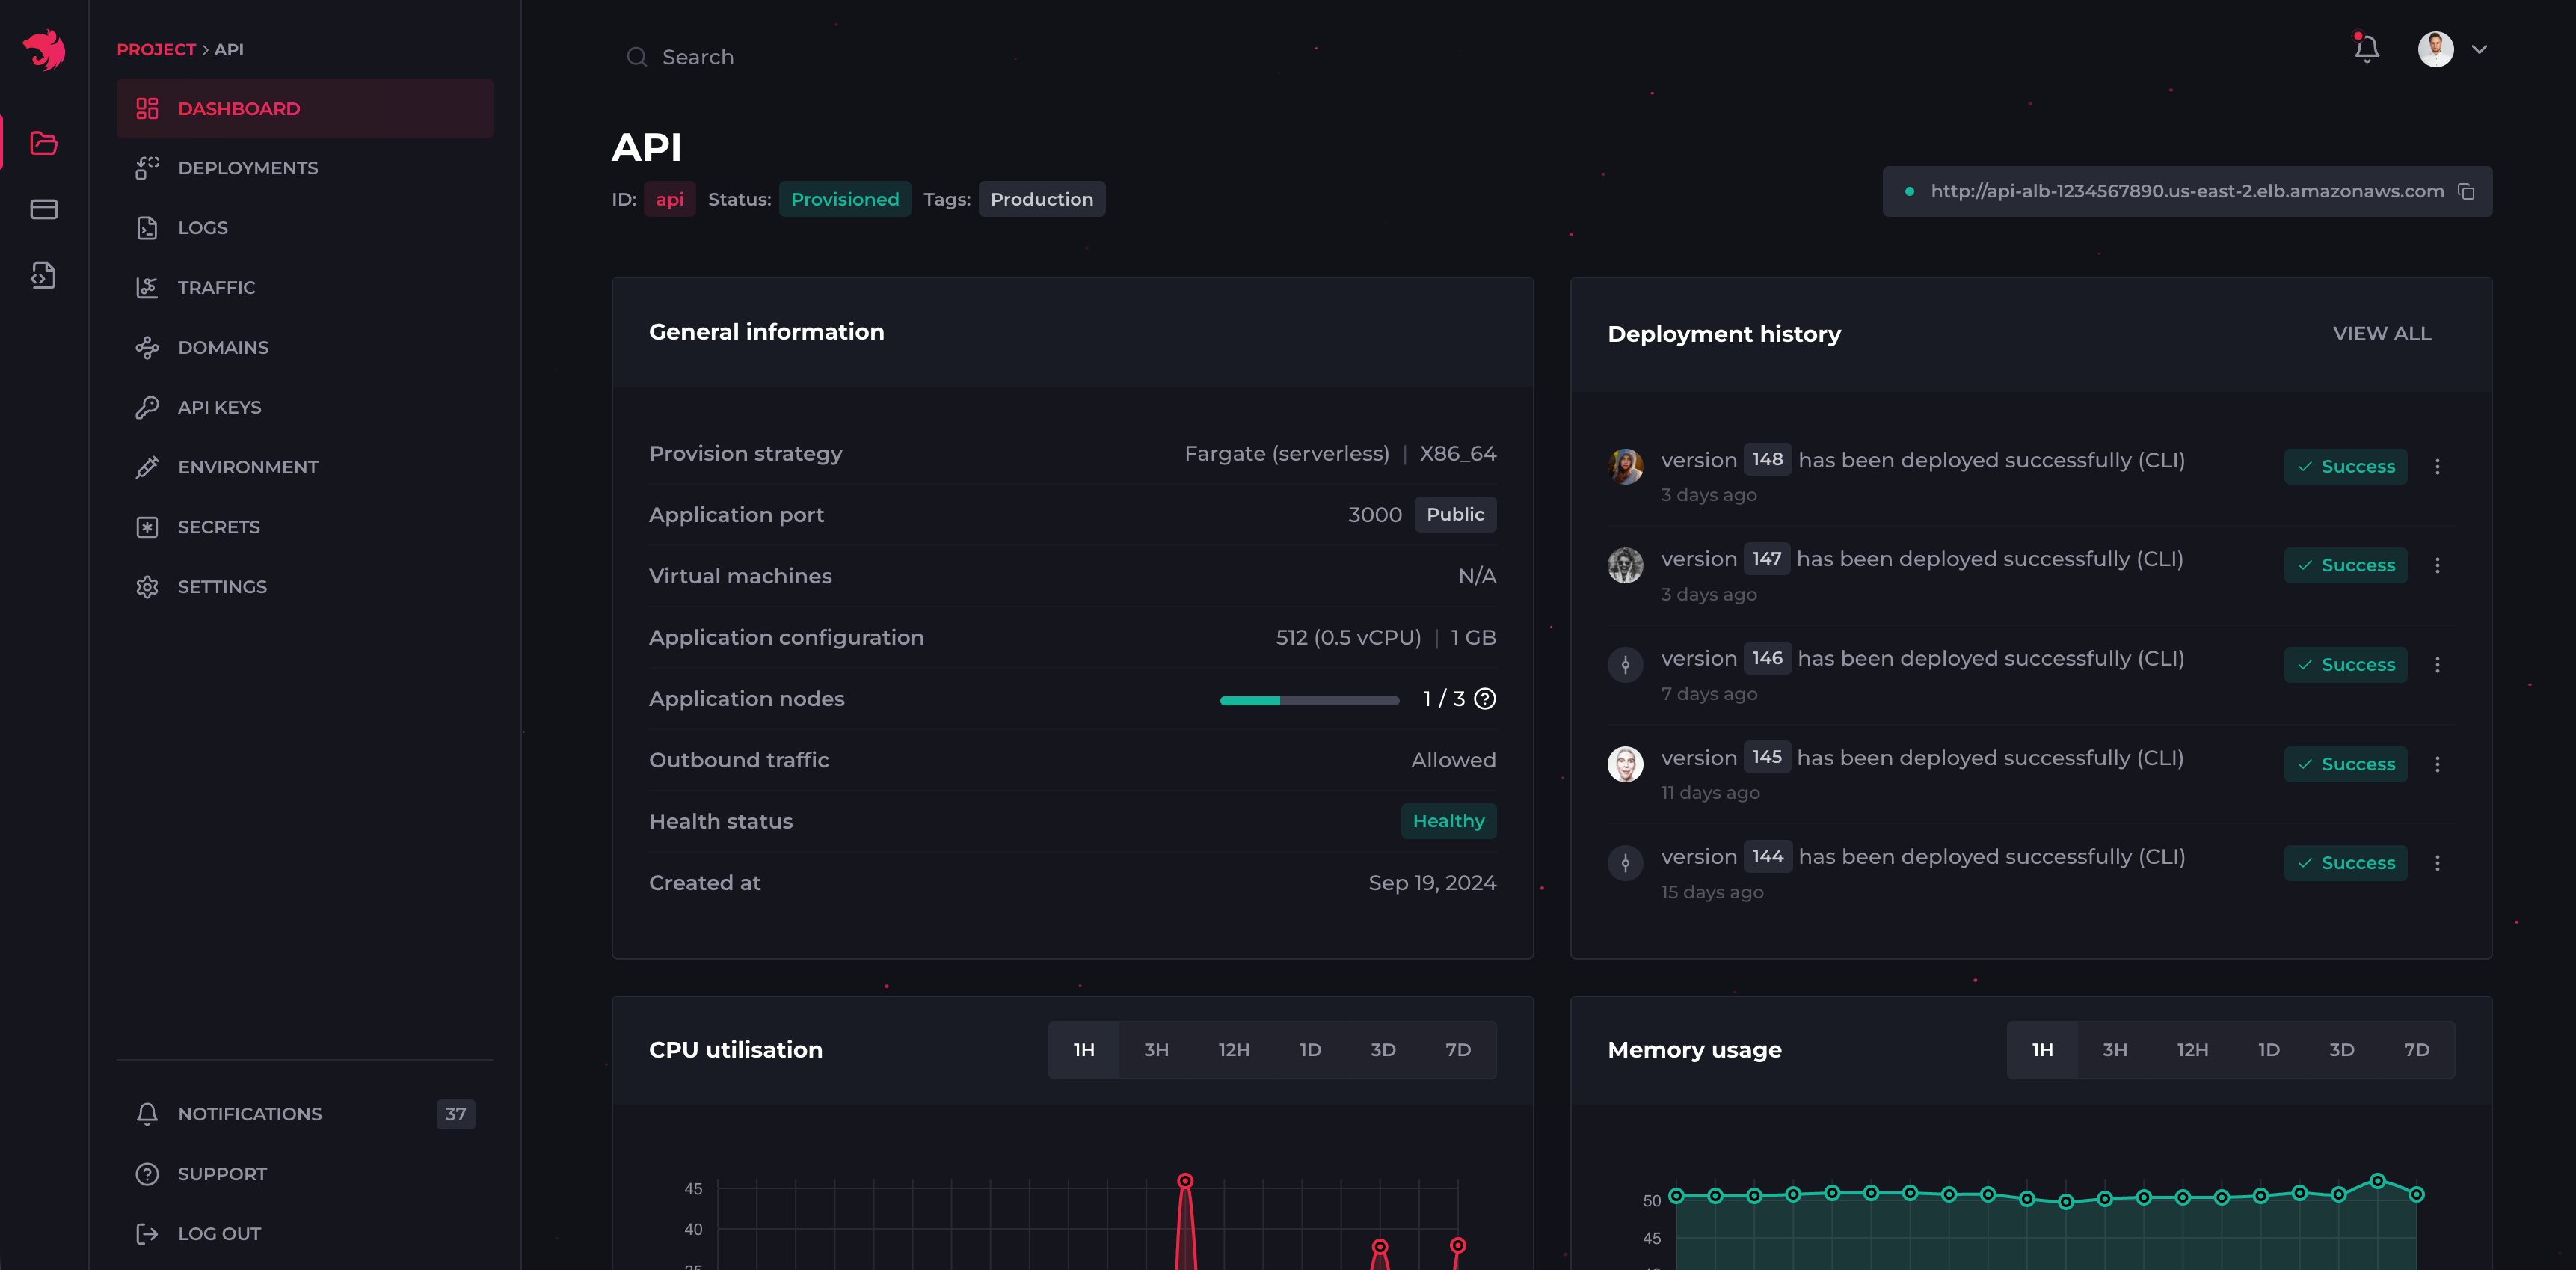
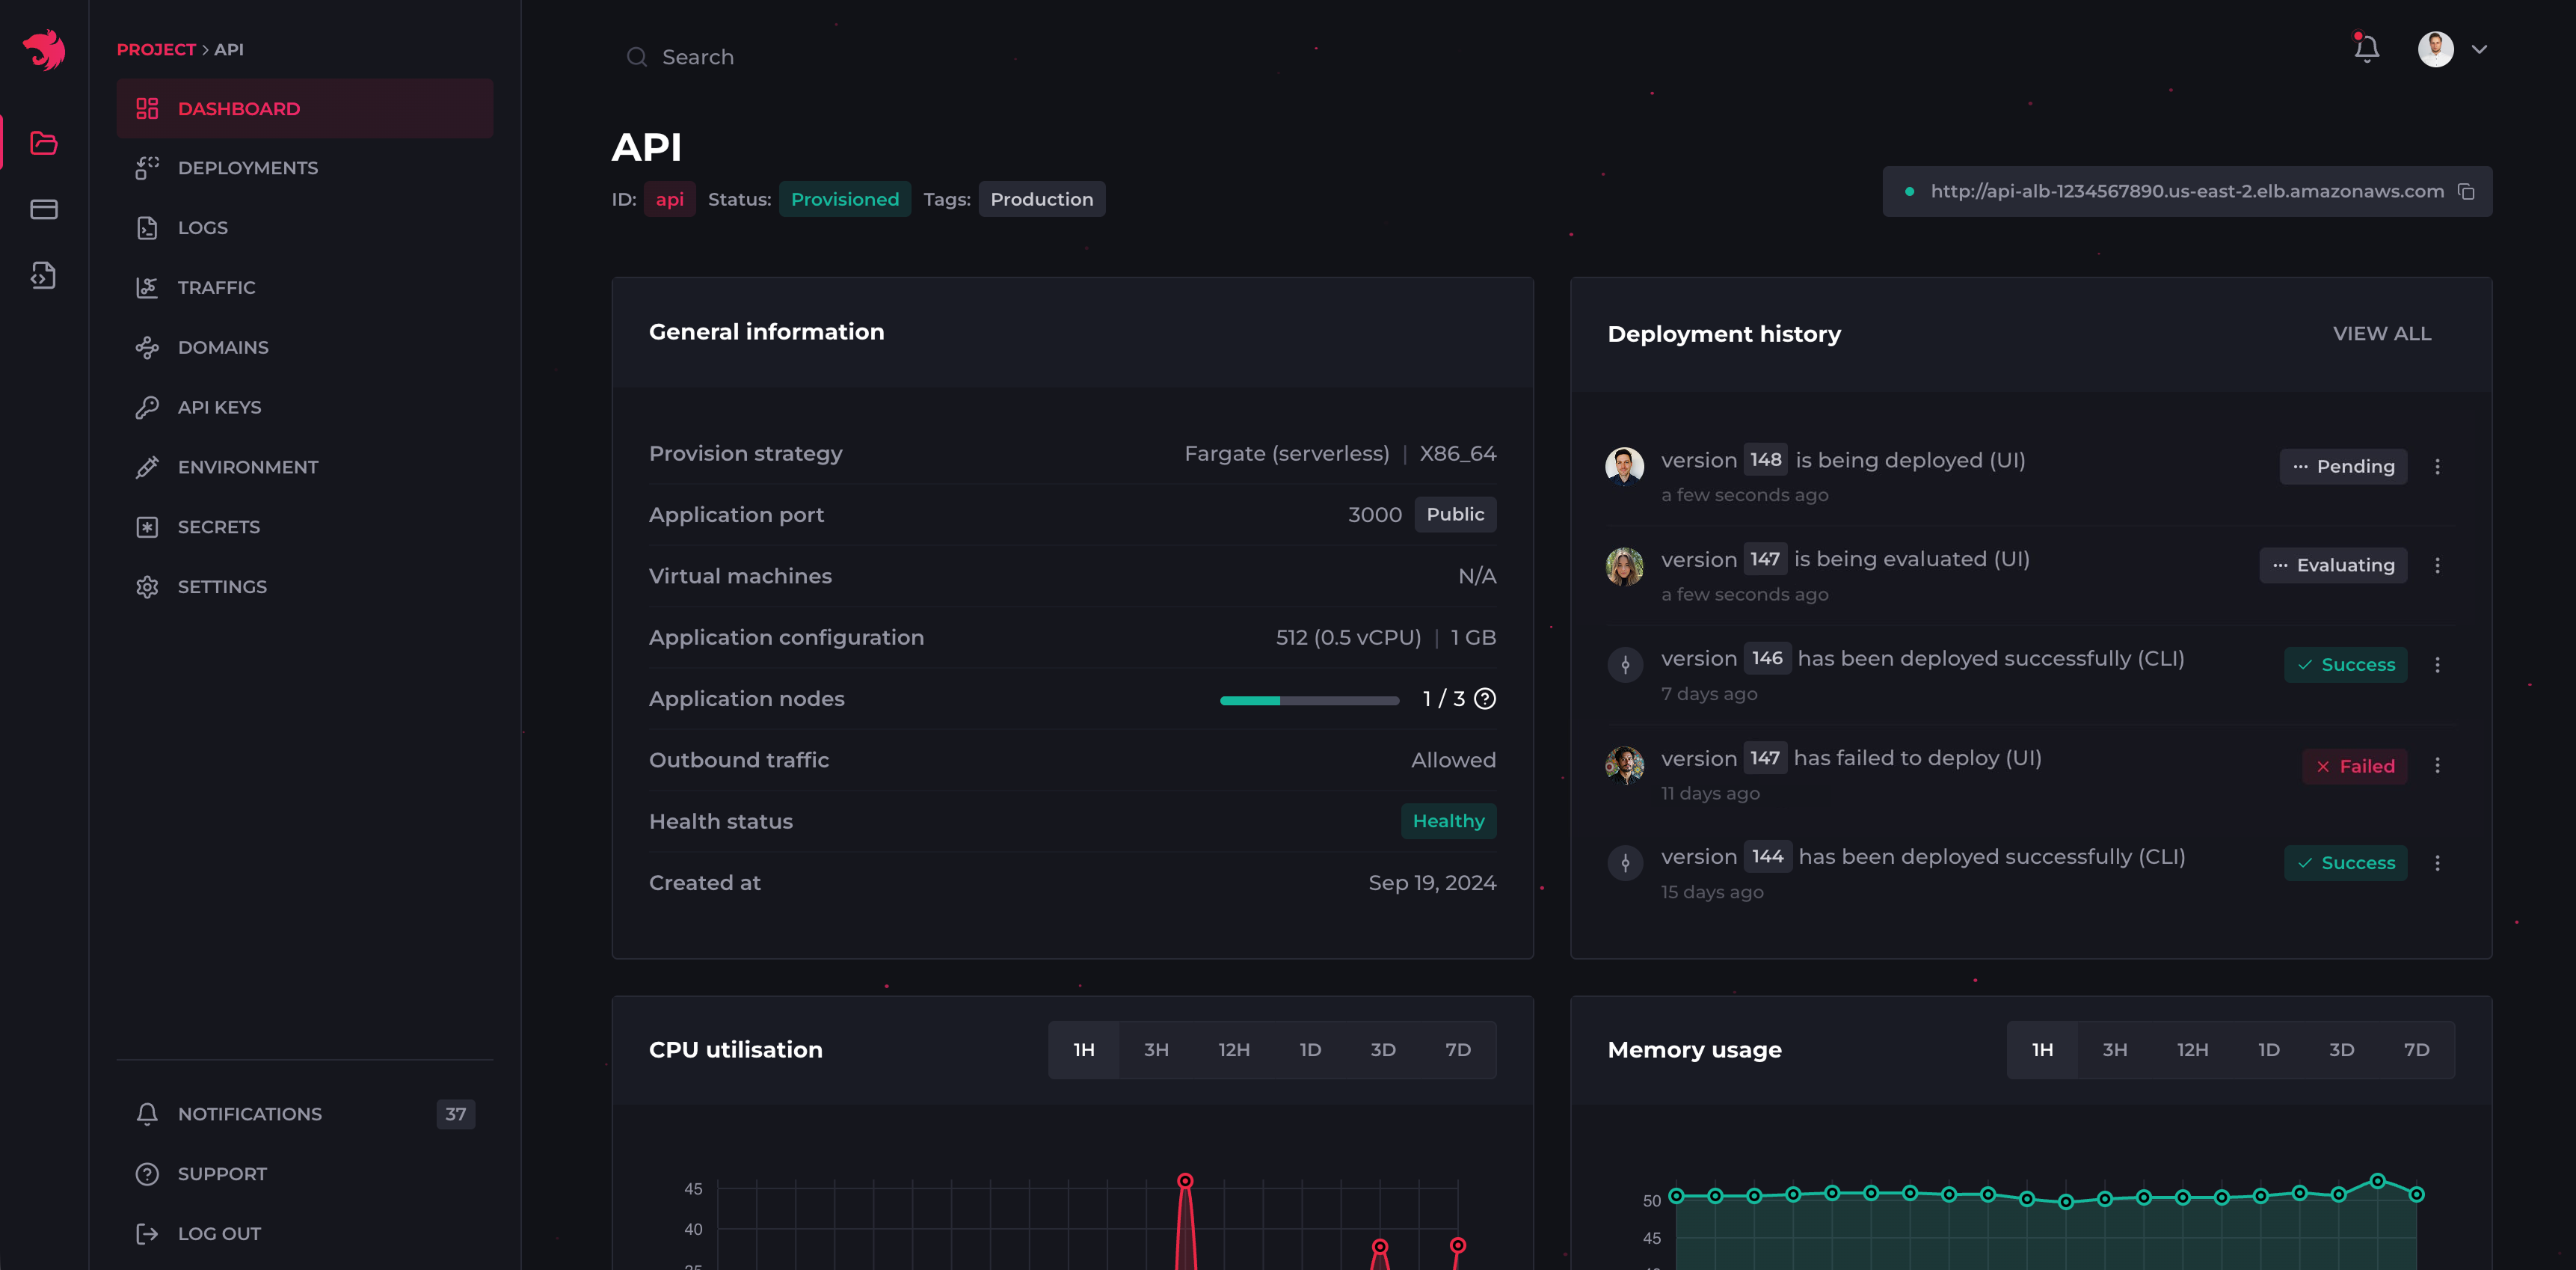
feat: final enterprise page

diff --git a/app/routes/enterprise.tsx b/app/routes/enterprise.tsx
@@ -1,5 +1,6 @@
 import { useEffect, useState } from "react";
-import Conference from "../assets/marketing/conferences.png";
+import Conference from "../assets/marketing/conferences.jpg";
+import Training from "../assets/marketing/trainings.jpg";
 import { MENU_ITEMS } from "../common/menu";
 import ScrollReveal from "../components/animations/scroll-reveal/scroll-reveal";
 import AnimatedChart from "../components/backgrounds/animated-chart/animated-chart";
@@ -66,7 +67,7 @@ export default function Enterprise() {
         variant="description"
       />
       <TiltedTestimonial />
-      <div className="px-5 pt-24 md:mt-80 relative md:pb-160 pb-24">
+      <div className="px-5 pt-24 md:mt-80 relative lg:pb-160 md:pb-120 pb-40">
         <AnimatedChart />
         <div className="container relative flex mx-auto md:flex-row flex-col items-center">
           <div className="max-w-[800px]">
@@ -90,10 +91,43 @@ export default function Enterprise() {
           </div>
         </div>
       </div>
+      <div className="flex justify-center">
+        <div className="container relative md:px-0 px-5 flex flex-col-reverse md:flex-col">
+          <div className="grid md:grid-cols-[50%_10%_40%] grid-rows-[auto] gap-0 md:mt-0 mt-12">
+            <div>
+              <SectionSubheading>Expertise</SectionSubheading>
+              <ScrollReveal
+                ElementTag="h2"
+                className="font-medium md:text-5xl sm:text-3xl text-4xl mb-4 md:leading-14 sm:leading-10 leading-12"
+                enableBlur
+              >
+                Maximize Performance. Minimize Risk.
+              </ScrollReveal>
+            </div>
+            <span></span>
+            <ScrollReveal
+              className="font-mono text-sm opacity-70 leading-6 font-light sm:pt-10 pt-4"
+              ElementTag="p"
+              enableBlur
+            >
+              Our enterprise NestJS support proactively identifies bottlenecks
+              and improves system performance across complex environments. We
+              help you maintain stability and reduce risk even under heavy
+              production load.
+            </ScrollReveal>
+          </div>
+          <div className="overflow-hidden rounded-[32px] mt-24">
+            <img src={Conference} alt="Conference" className="w-full" />
+          </div>
+        </div>
+      </div>
       <PhotoSection
-        subheading="Expertise"
-        heading="Maximize Performance. Minimize Risk."
-        text="Our enterprise NestJS support proactively identifies bottlenecks and improves system performance across complex environments. We help you maintain stability and reduce risk even under heavy production load."
+        subheading="Education"
+        heading="Hands-on workshops led by experienced engineers"
+        text="Focused, practical sessions that help teams build and scale with
+              NestJS. We cover core concepts, architecture, testing, and
+              performance through real-world examples - so your developers can
+              apply what they learn immediately."
         cta={
           <PrimaryButton href="mailto:[email redacted]" target="_blank">
             Contact us
@@ -101,12 +135,12 @@ export default function Enterprise() {
         }
         image={
           <img
-            src={Conference}
-            alt="Conference"
+            src={Training}
+            alt="Training"
             className="rounded-[20px] w-full"
           />
         }
-        className="px-5 py-8 mb-30"
+        className="px-5 py-8 md:mt-60 mt-30 md:mb-30 mb-12"
       />
       <CoursesSection
         className="sm:pt-30 pt-0"

diff --git a/app/routes/tools-mau.tsx b/app/routes/tools-mau.tsx
@@ -8,6 +8,10 @@ import { useEffect, useState } from "react";
 import MauCard1 from "../assets/mau-cards/card-1.png";
 import MauCard2 from "../assets/mau-cards/card-2.png";
 import MauCard3 from "../assets/mau-cards/card-3.png";
+import MauBackground from "../assets/mau-cards/card-bg.png";
+import MauIllustration1 from "../assets/mau-cards/illustration-1.png";
+import MauIllustration2 from "../assets/mau-cards/illustration-2.png";
+import MauIllustration3 from "../assets/mau-cards/illustration-3.png";
 import HeaderBlock1 from "../assets/mau-header/header-block-1.png";
 import HeaderBlock2 from "../assets/mau-header/header-block-2.png";
 import { MENU_ITEMS } from "../common/menu";
@@ -141,8 +145,16 @@ export default function Courses() {
               <div className="flex items-center lg:h-[550px] md:h-[800px] h-[500px] md:flex-1 flex-auto w-full relative rounded-[24px] overflow-hidden border-white/12 border">
                 <BlurIn delay={0.1} className="absolute inset-0">
                   <div
+                    style={{ backgroundImage: `url(${MauBackground})` }}
+                    className="absolute top-0 left-0 bottom-0 right-0 w-full bg-cover lg:bg-position-[center_left] sm:bg-center xl:block hidden"
+                  />
+                  <img
+                    src={MauIllustration1}
+                    className="absolute top-0 left-0 bottom-0 right-0 w-full pointer-events-none xl:block hidden"
+                  />
+                  <div
                     style={{ backgroundImage: `url(${MauCard1})` }}
-                    className="absolute top-0 left-0 bottom-0 right-0 w-full bg-cover lg:bg-position-[center_left] sm:bg-center"
+                    className="absolute top-0 left-0 bottom-0 right-0 w-full bg-cover lg:bg-position-[center_left] sm:bg-center xl:hidden block"
                   />
                 </BlurIn>
                 <div className="absolute inset-0 bottom-0 left-0 right-0 pointer-events-none lg:p-10 p-6 top-auto lg:h-auto sm:h-[40%]">
@@ -161,8 +173,18 @@ export default function Courses() {
               <div className="flex items-center lg:h-[550px] md:h-[800px] h-[500px] md:flex-1 flex-auto w-full relative rounded-[24px] overflow-hidden border-white/12 border">
                 <BlurIn delay={0.3} className="absolute inset-0">
                   <div
+                    style={{ backgroundImage: `url(${MauBackground})` }}
+                    className="absolute top-0 left-0 bottom-0 right-0 w-full bg-cover lg:bg-position-[center_left] sm:bg-center
+                    xl:block hidden"
+                  />
+                  <img
+                    src={MauIllustration2}
+                    className="absolute top-0 left-0 bottom-0 right-0 w-full pointer-events-none xl:block hidden"
+                  />
+                  <div
                     style={{ backgroundImage: `url(${MauCard2})` }}
-                    className="absolute top-0 left-0 bottom-0 right-0 w-full bg-cover lg:bg-position-[center_left] sm:bg-center"
+                    className="absolute top-0 left-0 bottom-0 right-0 w-full bg-cover lg:bg-position-[center_left] sm:bg-center
+                    xl:hidden block"
                   />
                 </BlurIn>
                 <div className="absolute inset-0 bottom-0 left-0 right-0 pointer-events-none lg:p-10 p-6 top-auto lg:h-auto sm:h-[40%]">
@@ -180,8 +202,16 @@ export default function Courses() {
               <div className="flex items-center lg:h-[550px] md:h-[800px] h-[500px] md:flex-1 flex-auto w-full relative rounded-[24px] overflow-hidden border-white/12 border">
                 <BlurIn delay={0.3} className="absolute inset-0">
                   <div
+                    style={{ backgroundImage: `url(${MauBackground})` }}
+                    className="absolute top-0 left-0 bottom-0 right-0 w-full bg-cover lg:bg-position-[center_left] sm:bg-center xl:block hidden"
+                  />
+                  <img
+                    src={MauIllustration3}
+                    className="absolute top-0 left-0 bottom-0 right-0 w-full pointer-events-none xl:block hidden"
+                  />
+                  <div
                     style={{ backgroundImage: `url(${MauCard3})` }}
-                    className="absolute top-0 left-0 bottom-0 right-0 w-full bg-cover lg:bg-position-[center_left] sm:bg-center"
+                    className="absolute top-0 left-0 bottom-0 right-0 w-full bg-cover lg:bg-position-[center_left] sm:bg-center xl:hidden block"
                   />
                 </BlurIn>
                 <div className="absolute inset-0 bottom-0 left-0 right-0 pointer-events-none lg:p-10 p-6 top-auto lg:h-auto sm:h-[40%]">